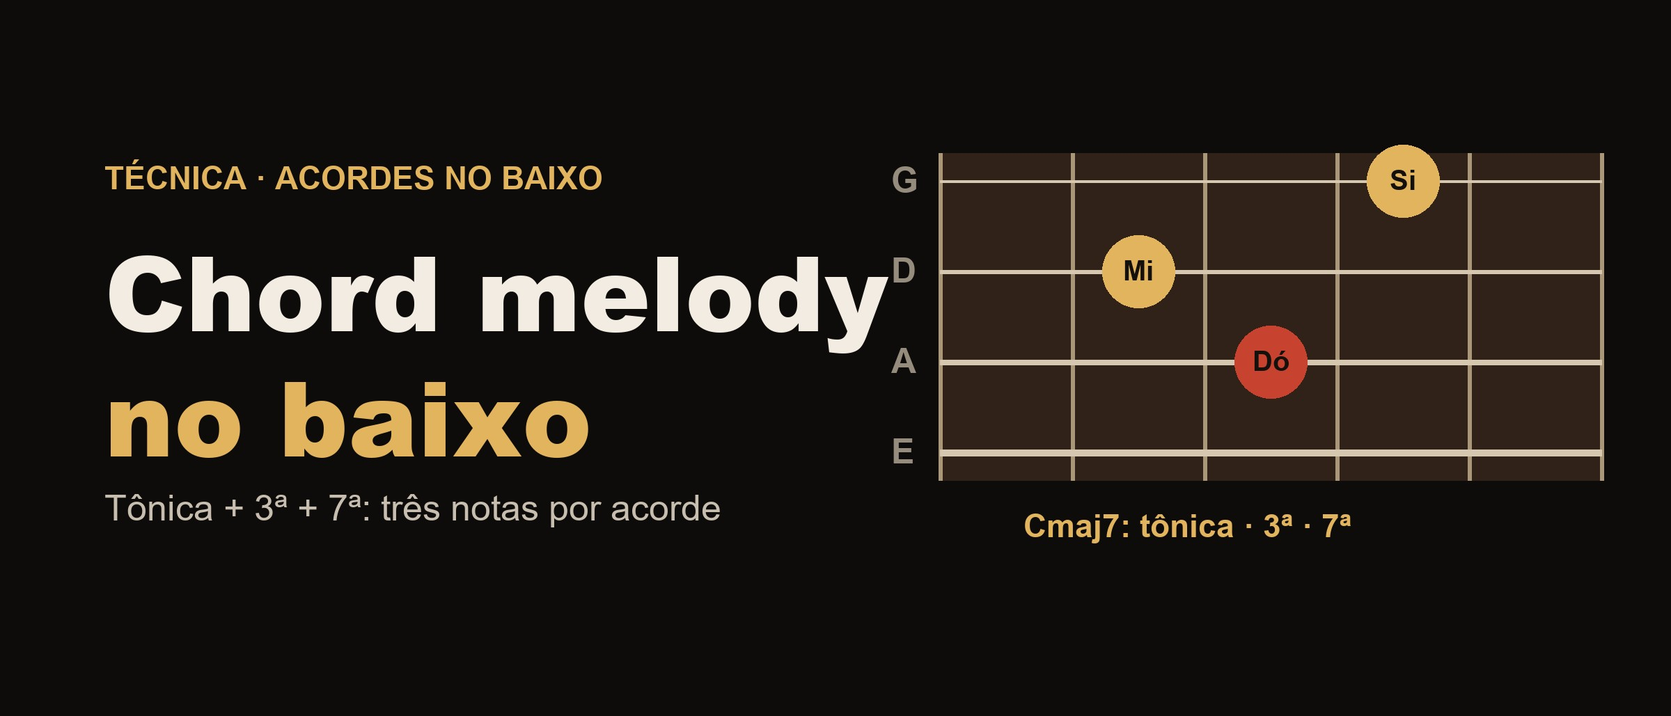
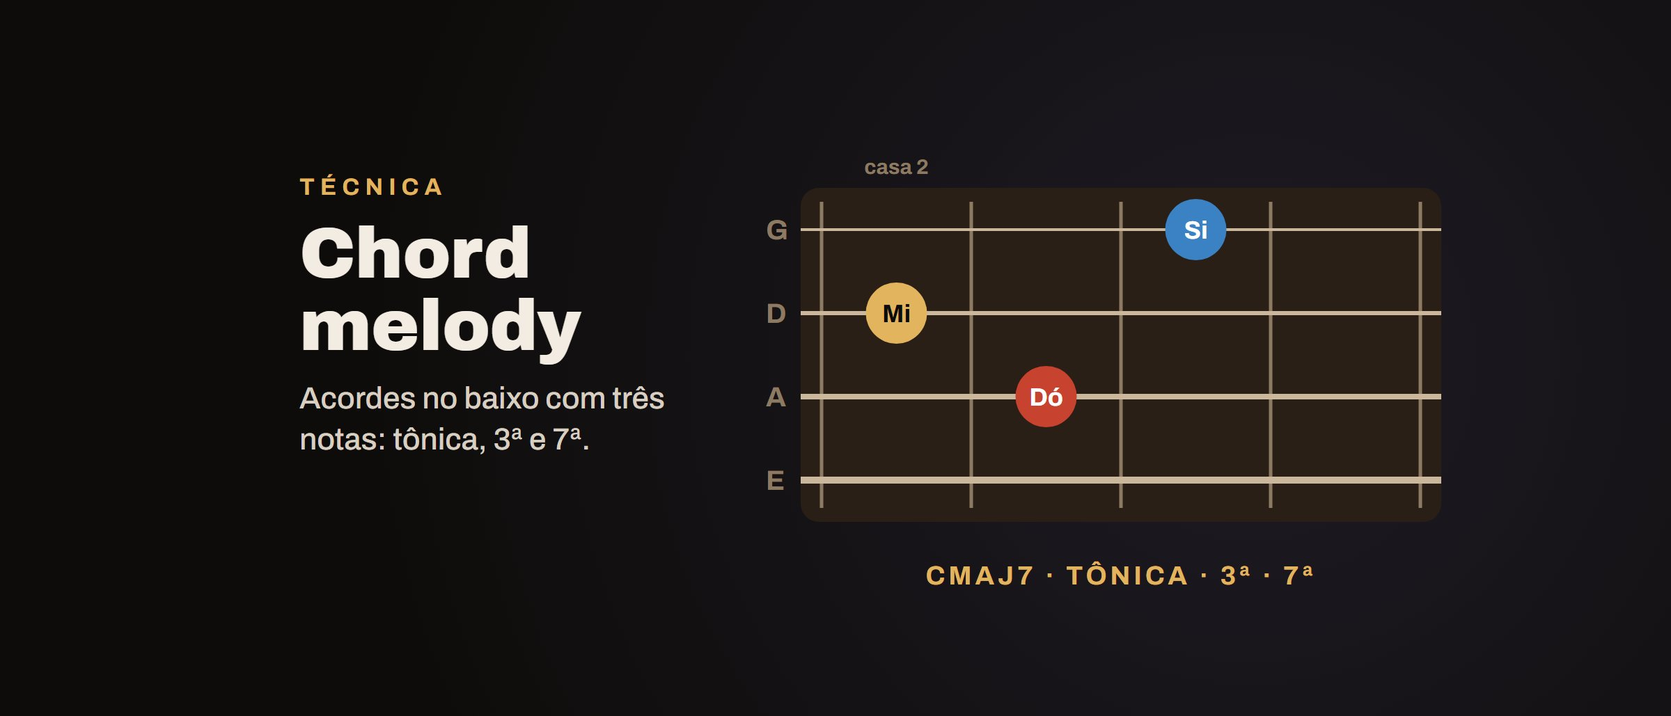
Blog: capas novas de Chord melody e 20 minutos por dia

Changed region(s): [[0.0625, 0.1866, 0.9688, 0.8397], [0.0625, 0.6842, 0.4375, 0.7464], [0.0625, 0.2177, 0.375, 0.2799]]

diff --git a/blog/como-estudar-baixo-20-minutos/index.html b/blog/como-estudar-baixo-20-minutos/index.html
@@ -9,7 +9,7 @@
 <meta property="og:type" content="website"><meta property="og:title" content="Como estudar baixo 20 minutos por dia · Ponto Grave"><meta property="og:description" content="Uma rotina de 20 minutos em 4 partes (aquecimento, técnica, repertório e criação), com tablatura e a regra do metrônomo para evoluir de verdade.">
 <meta name="p:domain_verify" content="52e3d19f7f7dd872ad8d0d6c3d9c54eb"/>
 <meta name="facebook-domain-verification" content="0gfs4mmpw6w1qt8sbcynrootcdd90w" />
-<meta property="og:image" content="https://pontograve.com.br/assets/img/blog-20-minutos.jpg?v=bcf600b9"><meta property="og:url" content="https://pontograve.com.br/blog/como-estudar-baixo-20-minutos/"><meta name="twitter:card" content="summary_large_image">
+<meta property="og:image" content="https://pontograve.com.br/assets/img/blog-20-minutos.jpg?v=cd104d4b"><meta property="og:url" content="https://pontograve.com.br/blog/como-estudar-baixo-20-minutos/"><meta name="twitter:card" content="summary_large_image">
 <meta name="theme-color" content="#0E0C0A">
 <link rel="icon" href="/assets/icones/icon.svg" type="image/svg+xml"><link rel="apple-touch-icon" href="/assets/icones/icon-180.png">
 <link rel="preconnect" href="https://fonts.googleapis.com"><link rel="preconnect" href="https://fonts.gstatic.com" crossorigin>
@@ -31,7 +31,7 @@ var pgC=null;try{pgC=localStorage.getItem('pg-cookies')}catch(e){}
 gtag('consent','default',{analytics_storage:pgC==='sim'?'granted':'denied',ad_storage:'denied',ad_user_data:'denied',ad_personalization:'denied'});
 gtag('js',new Date());gtag('config','G-DQKNDTQTC2');</script>
 <script async src="https://pagead2.googlesyndication.com/pagead/js/adsbygoogle.js?client=ca-pub-8083446003723195" crossorigin="anonymous"></script>
-<script type="application/ld+json">{"@context":"https://schema.org","@type":"BlogPosting","headline":"Como estudar baixo 20 minutos por dia (e evoluir de verdade)","description":"Uma rotina de 20 minutos em 4 partes (aquecimento, técnica, repertório e criação), com tablatura e a regra do metrônomo para evoluir de verdade.","datePublished":"2026-11-24","image":"https://pontograve.com.br/assets/img/blog-20-minutos.jpg?v=bcf600b9","author":{"@type":"Organization","name":"Ponto Grave"},"publisher":{"@type":"Organization","name":"Ponto Grave"}}</script><script type="application/ld+json">{"@context":"https://schema.org","@type":"FAQPage","mainEntity":[{"@type":"Question","name":"20 minutos são suficientes mesmo?","acceptedAnswer":{"@type":"Answer","text":"Para manter o progresso constante, sim. Se sobrar tempo, aumente cada parte proporcionalmente (40 ou 60 minutos), sem pular nenhuma."}},{"@type":"Question","name":"Posso estudar sem metrônomo?","acceptedAnswer":{"@type":"Answer","text":"Pode, mas evolui mais devagar. O tempo é o trabalho principal do baixista, e o metrônomo é o que mostra onde você corre ou atrasa."}},{"@type":"Question","name":"E se eu perder um dia?","acceptedAnswer":{"@type":"Answer","text":"Retome no dia seguinte, de onde parou. O que pesa é a frequência ao longo das semanas, não um dia isolado."}},{"@type":"Question","name":"Por onde começar se eu não sei nenhuma escala?","acceptedAnswer":{"@type":"Answer","text":"Pela pentatônica menor, no Desenho 1. Ela já serve para tocar linhas em blues, rock, pop e louvor."}}]}</script>
+<script type="application/ld+json">{"@context":"https://schema.org","@type":"BlogPosting","headline":"Como estudar baixo 20 minutos por dia (e evoluir de verdade)","description":"Uma rotina de 20 minutos em 4 partes (aquecimento, técnica, repertório e criação), com tablatura e a regra do metrônomo para evoluir de verdade.","datePublished":"2026-11-24","image":"https://pontograve.com.br/assets/img/blog-20-minutos.jpg?v=cd104d4b","author":{"@type":"Organization","name":"Ponto Grave"},"publisher":{"@type":"Organization","name":"Ponto Grave"}}</script><script type="application/ld+json">{"@context":"https://schema.org","@type":"FAQPage","mainEntity":[{"@type":"Question","name":"20 minutos são suficientes mesmo?","acceptedAnswer":{"@type":"Answer","text":"Para manter o progresso constante, sim. Se sobrar tempo, aumente cada parte proporcionalmente (40 ou 60 minutos), sem pular nenhuma."}},{"@type":"Question","name":"Posso estudar sem metrônomo?","acceptedAnswer":{"@type":"Answer","text":"Pode, mas evolui mais devagar. O tempo é o trabalho principal do baixista, e o metrônomo é o que mostra onde você corre ou atrasa."}},{"@type":"Question","name":"E se eu perder um dia?","acceptedAnswer":{"@type":"Answer","text":"Retome no dia seguinte, de onde parou. O que pesa é a frequência ao longo das semanas, não um dia isolado."}},{"@type":"Question","name":"Por onde começar se eu não sei nenhuma escala?","acceptedAnswer":{"@type":"Answer","text":"Pela pentatônica menor, no Desenho 1. Ela já serve para tocar linhas em blues, rock, pop e louvor."}}]}</script>
 </head>
 <body class="tema-claro">
 <div class="brilho-cursor" aria-hidden="true"></div>
@@ -49,7 +49,7 @@ gtag('js',new Date());gtag('config','G-DQKNDTQTC2');</script>
 <div class="barra-leitura" aria-hidden="true"></div>
 <section class="artigo-topo"><div class="wrap"><a href="/blog/tema/primeiros-passos/" class="rot" style="text-decoration:none">← Primeiros passos</a><h1>Como estudar baixo 20 minutos por dia (e evoluir de verdade)</h1>
   <p class="sub">Uma rotina simples em 4 partes, aquecimento, técnica, repertório e criação, que cabe em 20 minutos. Com exemplo de cada parte em tablatura, a regra do metrônomo e como medir o seu progresso.</p><p style="color:var(--cinza);font-size:14px">24 de novembro de 2026 · 5 min de leitura</p></div></section>
-<div class="wrap"><div class="artigo-capa revelar encaixar"><img src="/assets/img/blog-20-minutos.jpg?v=bcf600b9" alt="Como estudar baixo 20 minutos por dia (e evoluir de verdade)"></div><article class="prosa"><p>&quot;Não tenho tempo para estudar.&quot; Quase todo baixista já disse isso. E quase sempre o problema não é o tempo: é não saber <strong>o que fazer</strong> quando pega o baixo. Aí a pessoa toca as mesmas duas linhas de sempre, sente que não sai do lugar e larga o instrumento por uma semana.</p>
+<div class="wrap"><div class="artigo-capa revelar"><img src="/assets/img/blog-20-minutos.jpg?v=cd104d4b" alt="Como estudar baixo 20 minutos por dia (e evoluir de verdade)"></div><article class="prosa"><p>&quot;Não tenho tempo para estudar.&quot; Quase todo baixista já disse isso. E quase sempre o problema não é o tempo: é não saber <strong>o que fazer</strong> quando pega o baixo. Aí a pessoa toca as mesmas duas linhas de sempre, sente que não sai do lugar e larga o instrumento por uma semana.</p>
 <p>Quando comecei, aprendi sozinho, com pouco material e correndo atrás de informação. O que mais fez diferença não foi estudar muitas horas num domingo: foi ter <strong>um roteiro curto para todos os dias</strong>. Vinte minutos bem divididos rendem mais do que três horas sem rumo.</p>
 <p>Este artigo mostra esse roteiro: quatro partes, quanto tempo cada uma leva e um exemplo prático de cada.</p>
 <details class="sumario" open><summary>Neste artigo</summary><ol><li><a href="#por-que-20-minutos-funcionam">Por que 20 minutos funcionam</a></li><li><a href="#a-rotina-em-4-partes">A rotina em 4 partes</a></li><li><a href="#1-aquecimento-3-minutos">1. Aquecimento (3 minutos)</a></li><li><a href="#2-tecnica-ou-escala-7-minutos">2. Técnica ou escala (7 minutos)</a></li><li><a href="#3-repertorio-e-groove-7-minutos">3. Repertório e groove (7 minutos)</a></li><li><a href="#4-criacao-3-minutos">4. Criação (3 minutos)</a></li><li><a href="#exercicio-para-hoje">Exercício para hoje</a></li><li><a href="#como-medir-o-seu-progresso">Como medir o seu progresso</a></li><li><a href="#erros-comuns">Erros comuns</a></li><li><a href="#perguntas-frequentes">Perguntas frequentes</a></li><li><a href="#para-ir-alem">Para ir além</a></li></ol></details><h2 id="por-que-20-minutos-funcionam">Por que 20 minutos funcionam</h2>

diff --git a/blog/chord-melody-no-baixo/index.html b/blog/chord-melody-no-baixo/index.html
@@ -9,7 +9,7 @@
 <meta property="og:type" content="website"><meta property="og:title" content="Acordes no baixo: chord melody com 3 notas · Ponto Grave"><meta property="og:description" content="Tônica, 3ª e 7ª: toque acordes no contrabaixo com a progressão de &quot;Just the Two of Us&quot;. As 5 formas no braço e exercício em tablatura.">
 <meta name="p:domain_verify" content="52e3d19f7f7dd872ad8d0d6c3d9c54eb"/>
 <meta name="facebook-domain-verification" content="0gfs4mmpw6w1qt8sbcynrootcdd90w" />
-<meta property="og:image" content="https://pontograve.com.br/assets/img/blog-chord-melody.jpg?v=09d7aa9a"><meta property="og:url" content="https://pontograve.com.br/blog/chord-melody-no-baixo/"><meta name="twitter:card" content="summary_large_image">
+<meta property="og:image" content="https://pontograve.com.br/assets/img/blog-chord-melody.jpg?v=0038b656"><meta property="og:url" content="https://pontograve.com.br/blog/chord-melody-no-baixo/"><meta name="twitter:card" content="summary_large_image">
 <meta name="theme-color" content="#0E0C0A">
 <link rel="icon" href="/assets/icones/icon.svg" type="image/svg+xml"><link rel="apple-touch-icon" href="/assets/icones/icon-180.png">
 <link rel="preconnect" href="https://fonts.googleapis.com"><link rel="preconnect" href="https://fonts.gstatic.com" crossorigin>
@@ -31,7 +31,7 @@ var pgC=null;try{pgC=localStorage.getItem('pg-cookies')}catch(e){}
 gtag('consent','default',{analytics_storage:pgC==='sim'?'granted':'denied',ad_storage:'denied',ad_user_data:'denied',ad_personalization:'denied'});
 gtag('js',new Date());gtag('config','G-DQKNDTQTC2');</script>
 <script async src="https://pagead2.googlesyndication.com/pagead/js/adsbygoogle.js?client=ca-pub-8083446003723195" crossorigin="anonymous"></script>
-<script type="application/ld+json">{"@context":"https://schema.org","@type":"BlogPosting","headline":"Chord melody no baixo: a progressão de 'Just the Two of Us' com 3 notas por acorde","description":"Tônica, 3ª e 7ª: toque acordes no contrabaixo com a progressão de \"Just the Two of Us\". As 5 formas no braço e exercício em tablatura.","datePublished":"2026-11-24","image":"https://pontograve.com.br/assets/img/blog-chord-melody.jpg?v=09d7aa9a","author":{"@type":"Organization","name":"Ponto Grave"},"publisher":{"@type":"Organization","name":"Ponto Grave"}}</script><script type="application/ld+json">{"@context":"https://schema.org","@type":"FAQPage","mainEntity":[{"@type":"Question","name":"Dá para fazer chord melody num baixo de 4 cordas?","acceptedAnswer":{"@type":"Answer","text":"Dá, principalmente com formas de 3 notas como estas. O baixo de 5 ou 6 cordas facilita a melodia aguda, mas não é obrigatório para começar."}},{"@type":"Question","name":"Por que tirar a 5ª do acorde?","acceptedAnswer":{"@type":"Answer","text":"Porque ela quase não muda o som e ocupa uma corda. A 3ª e a 7ª dizem ao ouvido qual é o acorde; a tônica embaixo completa a informação."}},{"@type":"Question","name":"Preciso saber teoria para isso?","acceptedAnswer":{"@type":"Answer","text":"Só o básico de intervalos: onde fica a 3ª e a 7ª a partir da tônica. As formas da tabela já resolvem a progressão inteira."}},{"@type":"Question","name":"Posso usar essas formas em outras músicas?","acceptedAnswer":{"@type":"Answer","text":"Sim. As formas de maj7, m7 e 7 servem para qualquer música com esses acordes, em qualquer tom: basta mover a tônica."}}]}</script>
+<script type="application/ld+json">{"@context":"https://schema.org","@type":"BlogPosting","headline":"Chord melody no baixo: a progressão de 'Just the Two of Us' com 3 notas por acorde","description":"Tônica, 3ª e 7ª: toque acordes no contrabaixo com a progressão de \"Just the Two of Us\". As 5 formas no braço e exercício em tablatura.","datePublished":"2026-11-24","image":"https://pontograve.com.br/assets/img/blog-chord-melody.jpg?v=0038b656","author":{"@type":"Organization","name":"Ponto Grave"},"publisher":{"@type":"Organization","name":"Ponto Grave"}}</script><script type="application/ld+json">{"@context":"https://schema.org","@type":"FAQPage","mainEntity":[{"@type":"Question","name":"Dá para fazer chord melody num baixo de 4 cordas?","acceptedAnswer":{"@type":"Answer","text":"Dá, principalmente com formas de 3 notas como estas. O baixo de 5 ou 6 cordas facilita a melodia aguda, mas não é obrigatório para começar."}},{"@type":"Question","name":"Por que tirar a 5ª do acorde?","acceptedAnswer":{"@type":"Answer","text":"Porque ela quase não muda o som e ocupa uma corda. A 3ª e a 7ª dizem ao ouvido qual é o acorde; a tônica embaixo completa a informação."}},{"@type":"Question","name":"Preciso saber teoria para isso?","acceptedAnswer":{"@type":"Answer","text":"Só o básico de intervalos: onde fica a 3ª e a 7ª a partir da tônica. As formas da tabela já resolvem a progressão inteira."}},{"@type":"Question","name":"Posso usar essas formas em outras músicas?","acceptedAnswer":{"@type":"Answer","text":"Sim. As formas de maj7, m7 e 7 servem para qualquer música com esses acordes, em qualquer tom: basta mover a tônica."}}]}</script>
 </head>
 <body class="tema-claro">
 <div class="brilho-cursor" aria-hidden="true"></div>
@@ -49,7 +49,7 @@ gtag('js',new Date());gtag('config','G-DQKNDTQTC2');</script>
 <div class="barra-leitura" aria-hidden="true"></div>
 <section class="artigo-topo"><div class="wrap"><a href="/blog/tema/tecnica/" class="rot" style="text-decoration:none">← Técnica</a><h1>Chord melody no baixo: a progressão de 'Just the Two of Us' com 3 notas por acorde</h1>
   <p class="sub">Como tocar acordes no contrabaixo usando só a tônica, a 3ª e a 7ª, com a progressão que ficou famosa em &quot;Just the Two of Us&quot;. Formas no braço, tablatura do exercício e o caminho para o chord melody.</p><p style="color:var(--cinza);font-size:14px">24 de novembro de 2026 · 5 min de leitura</p></div></section>
-<div class="wrap"><div class="artigo-capa revelar"><img src="/assets/img/blog-chord-melody.jpg?v=09d7aa9a" alt="Chord melody no baixo: a progressão de 'Just the Two of Us' com 3 notas por acorde"></div><article class="prosa"><p>Tocar acordes no baixo parece coisa de baixista avançado, de baixo de 6 cordas e de vídeo com milhões de visualizações. Mas a base do <strong>chord melody</strong> (tocar a harmonia e a melodia sozinho) é simples: <strong>três notas por acorde</strong>.</p>
+<div class="wrap"><div class="artigo-capa revelar"><img src="/assets/img/blog-chord-melody.jpg?v=0038b656" alt="Chord melody no baixo: a progressão de 'Just the Two of Us' com 3 notas por acorde"></div><article class="prosa"><p>Tocar acordes no baixo parece coisa de baixista avançado, de baixo de 6 cordas e de vídeo com milhões de visualizações. Mas a base do <strong>chord melody</strong> (tocar a harmonia e a melodia sozinho) é simples: <strong>três notas por acorde</strong>.</p>
 <p>Neste artigo você vai montar essas formas usando uma das progressões mais conhecidas da música pop: a de <strong>&quot;Just the Two of Us&quot;</strong>, de Bill Withers e Grover Washington Jr. (1980). Ela é tão usada que muitos músicos a chamam simplesmente de &quot;a progressão Just the Two of Us&quot;.</p>
 <p>Aqui não tem a melodia nem o arranjo de ninguém: só a <strong>harmonia</strong>, que é o que você precisa para começar.</p>
 <details class="sumario" open><summary>Neste artigo</summary><ol><li><a href="#a-progressao">A progressão</a></li><li><a href="#por-que-so-3-notas">Por que só 3 notas</a></li><li><a href="#as-5-formas">As 5 formas</a></li><li><a href="#o-exercicio-em-tablatura">O exercício em tablatura</a></li><li><a href="#como-estudar">Como estudar</a></li><li><a href="#exercicio-para-hoje">Exercício para hoje</a></li><li><a href="#o-caminho-para-o-chord-melody">O caminho para o chord melody</a></li><li><a href="#perguntas-frequentes">Perguntas frequentes</a></li><li><a href="#para-ir-alem">Para ir além</a></li></ol></details><h2 id="a-progressao">A progressão</h2>

diff --git a/blog/index.html b/blog/index.html
@@ -49,9 +49,9 @@ gtag('js',new Date());gtag('config','G-DQKNDTQTC2');</script>
 <section class="artigo-topo" style="padding-bottom:30px"><div class="wrap"><span class="rot">Blog Ponto Grave</span><h1 class="titulo-letras">Para estudar <span class="o">hoje.</span></h1>
   <p class="sub">Técnica, teoria, equipamento e as lendas do baixo. Sempre com tablatura e exercício para você pegar o baixo e testar.</p><nav class="temas" aria-label="Temas do blog"><a href="/blog/" aria-current="page">Todos <span>26</span></a><a href="/blog/tema/primeiros-passos/">Primeiros passos <span>5</span></a><a href="/blog/tema/desafios-e-testes/">Desafios e testes <span>2</span></a><a href="/blog/tema/pentatonica/">Pentatônica <span>2</span></a><a href="/blog/tema/escalas/">Escalas <span>3</span></a><a href="/blog/tema/tecnica/">Técnica <span>5</span></a><a href="/blog/tema/louvor/">Louvor <span>1</span></a><a href="/blog/tema/equipamento/">Equipamento <span>5</span></a><a href="/blog/tema/lendas-do-baixo/">Lendas do baixo <span>1</span></a><a href="/blog/tema/vida-de-baixista/">Vida de baixista <span>2</span></a></nav></div></section>
 <section class="secao" style="padding-top:20px"><div class="wrap"><div class="posts"><a class="post-card revelar" style="--atraso:0s" href="/blog/chord-melody-no-baixo/">
-  <div class="img"><img src="/assets/img/blog-chord-melody.jpg?v=09d7aa9a" alt="Chord melody no baixo: a progressão de 'Just the Two of Us' com 3 notas por acorde" loading="lazy"></div>
+  <div class="img"><img src="/assets/img/blog-chord-melody.jpg?v=0038b656" alt="Chord melody no baixo: a progressão de 'Just the Two of Us' com 3 notas por acorde" loading="lazy"></div>
   <div class="txt"><span class="rot">Técnica</span><h3>Chord melody no baixo: a progressão de 'Just the Two of Us' com 3 notas por acorde</h3><p>Como tocar acordes no contrabaixo usando só a tônica, a 3ª e a 7ª, com a progressão que ficou famosa em &quot;Just the Two of Us&quot;. Formas no braço, tablatura do exercício e o caminho para o chord melody.</p><span class="meta">24 de novembro de 2026 · 5 min de leitura</span></div></a><a class="post-card revelar" style="--atraso:0.1s" href="/blog/como-estudar-baixo-20-minutos/">
-  <div class="img encaixar"><img src="/assets/img/blog-20-minutos.jpg?v=bcf600b9" alt="Como estudar baixo 20 minutos por dia (e evoluir de verdade)" loading="lazy"></div>
+  <div class="img"><img src="/assets/img/blog-20-minutos.jpg?v=cd104d4b" alt="Como estudar baixo 20 minutos por dia (e evoluir de verdade)" loading="lazy"></div>
   <div class="txt"><span class="rot">Primeiros passos</span><h3>Como estudar baixo 20 minutos por dia (e evoluir de verdade)</h3><p>Uma rotina simples em 4 partes, aquecimento, técnica, repertório e criação, que cabe em 20 minutos. Com exemplo de cada parte em tablatura, a regra do metrônomo e como medir o seu progresso.</p><span class="meta">24 de novembro de 2026 · 5 min de leitura</span></div></a><a class="post-card revelar" style="--atraso:0.2s" href="/blog/desafio-30-dias-baixo/">
   <div class="img"><img src="/assets/img/blog-desafio.jpg?v=3d0cdb11" alt="Desafio de 30 dias no baixo: do 'só a tônica' à sua primeira linha" loading="lazy"></div>
   <div class="txt"><span class="rot">Desafios e testes</span><h3>Desafio de 30 dias no baixo: do 'só a tônica' à sua primeira linha</h3><p>20 minutos por dia, 30 dias, uma tarefa por dia. No fim, você cria a sua própria linha de baixo com a pentatônica. Com tabela para acompanhar e exercícios em tablatura.</p><span class="meta">26 de outubro de 2026 · 6 min de leitura</span></div></a><a class="post-card revelar" style="--atraso:0.30000000000000004s" href="/blog/erros-de-baixista-iniciante/">

diff --git a/blog/tema/tecnica/index.html b/blog/tema/tecnica/index.html
@@ -49,7 +49,7 @@ gtag('js',new Date());gtag('config','G-DQKNDTQTC2');</script>
 <section class="artigo-topo" style="padding-bottom:30px"><div class="wrap"><span class="rot"><a href="/blog/" style="color:inherit;text-decoration:none">Blog</a> · Técnica</span><h1 class="titulo-letras">Técnica</h1>
   <p class="sub">Técnica, teoria, equipamento e as lendas do baixo. Sempre com tablatura e exercício para você pegar o baixo e testar.</p><nav class="temas" aria-label="Temas do blog"><a href="/blog/">Todos <span>26</span></a><a href="/blog/tema/primeiros-passos/">Primeiros passos <span>5</span></a><a href="/blog/tema/desafios-e-testes/">Desafios e testes <span>2</span></a><a href="/blog/tema/pentatonica/">Pentatônica <span>2</span></a><a href="/blog/tema/escalas/">Escalas <span>3</span></a><a href="/blog/tema/tecnica/" aria-current="page">Técnica <span>5</span></a><a href="/blog/tema/louvor/">Louvor <span>1</span></a><a href="/blog/tema/equipamento/">Equipamento <span>5</span></a><a href="/blog/tema/lendas-do-baixo/">Lendas do baixo <span>1</span></a><a href="/blog/tema/vida-de-baixista/">Vida de baixista <span>2</span></a></nav><script>(function(){var n=document.querySelector('.temas'),a=n&&n.querySelector('[aria-current]');if(a)n.scrollLeft=a.offsetLeft-n.offsetLeft-16})()</script></div></section>
 <section class="secao" style="padding-top:20px"><div class="wrap"><div class="posts"><a class="post-card revelar" style="--atraso:0s" href="/blog/chord-melody-no-baixo/">
-  <div class="img"><img src="/assets/img/blog-chord-melody.jpg?v=09d7aa9a" alt="Chord melody no baixo: a progressão de 'Just the Two of Us' com 3 notas por acorde" loading="lazy"></div>
+  <div class="img"><img src="/assets/img/blog-chord-melody.jpg?v=0038b656" alt="Chord melody no baixo: a progressão de 'Just the Two of Us' com 3 notas por acorde" loading="lazy"></div>
   <div class="txt"><span class="rot">Técnica</span><h3>Chord melody no baixo: a progressão de 'Just the Two of Us' com 3 notas por acorde</h3><p>Como tocar acordes no contrabaixo usando só a tônica, a 3ª e a 7ª, com a progressão que ficou famosa em &quot;Just the Two of Us&quot;. Formas no braço, tablatura do exercício e o caminho para o chord melody.</p><span class="meta">24 de novembro de 2026 · 5 min de leitura</span></div></a><a class="post-card revelar" style="--atraso:0.1s" href="/blog/ghost-notes-no-baixo/">
   <div class="img"><img src="/assets/img/blog-ghost-notes.jpg?v=8fbda1bd" alt="Ghost notes no baixo: o tempero que faz o groove balançar" loading="lazy"></div>
   <div class="txt"><span class="rot">Técnica</span><h3>Ghost notes no baixo: o tempero que faz o groove balançar</h3><p>&quot;Toco as notas certas, mas não balança.&quot; Muitas vezes falta o que não se ouve direito, as notas abafadas entre as notas. Como tocar, onde colocar e um groove para treinar hoje.</p><span class="meta">21 de outubro de 2026 · 5 min de leitura</span></div></a><a class="post-card revelar" style="--atraso:0.2s" href="/blog/walking-bass-para-iniciantes/">

diff --git a/blog/tema/primeiros-passos/index.html b/blog/tema/primeiros-passos/index.html
@@ -49,7 +49,7 @@ gtag('js',new Date());gtag('config','G-DQKNDTQTC2');</script>
 <section class="artigo-topo" style="padding-bottom:30px"><div class="wrap"><span class="rot"><a href="/blog/" style="color:inherit;text-decoration:none">Blog</a> · Primeiros passos</span><h1 class="titulo-letras">Primeiros passos</h1>
   <p class="sub">Técnica, teoria, equipamento e as lendas do baixo. Sempre com tablatura e exercício para você pegar o baixo e testar.</p><nav class="temas" aria-label="Temas do blog"><a href="/blog/">Todos <span>26</span></a><a href="/blog/tema/primeiros-passos/" aria-current="page">Primeiros passos <span>5</span></a><a href="/blog/tema/desafios-e-testes/">Desafios e testes <span>2</span></a><a href="/blog/tema/pentatonica/">Pentatônica <span>2</span></a><a href="/blog/tema/escalas/">Escalas <span>3</span></a><a href="/blog/tema/tecnica/">Técnica <span>5</span></a><a href="/blog/tema/louvor/">Louvor <span>1</span></a><a href="/blog/tema/equipamento/">Equipamento <span>5</span></a><a href="/blog/tema/lendas-do-baixo/">Lendas do baixo <span>1</span></a><a href="/blog/tema/vida-de-baixista/">Vida de baixista <span>2</span></a></nav><script>(function(){var n=document.querySelector('.temas'),a=n&&n.querySelector('[aria-current]');if(a)n.scrollLeft=a.offsetLeft-n.offsetLeft-16})()</script></div></section>
 <section class="secao" style="padding-top:20px"><div class="wrap"><div class="posts"><a class="post-card revelar" style="--atraso:0s" href="/blog/como-estudar-baixo-20-minutos/">
-  <div class="img encaixar"><img src="/assets/img/blog-20-minutos.jpg?v=bcf600b9" alt="Como estudar baixo 20 minutos por dia (e evoluir de verdade)" loading="lazy"></div>
+  <div class="img"><img src="/assets/img/blog-20-minutos.jpg?v=cd104d4b" alt="Como estudar baixo 20 minutos por dia (e evoluir de verdade)" loading="lazy"></div>
   <div class="txt"><span class="rot">Primeiros passos</span><h3>Como estudar baixo 20 minutos por dia (e evoluir de verdade)</h3><p>Uma rotina simples em 4 partes, aquecimento, técnica, repertório e criação, que cabe em 20 minutos. Com exemplo de cada parte em tablatura, a regra do metrônomo e como medir o seu progresso.</p><span class="meta">24 de novembro de 2026 · 5 min de leitura</span></div></a><a class="post-card revelar" style="--atraso:0.1s" href="/blog/erros-de-baixista-iniciante/">
   <div class="img"><img src="/assets/img/blog-erros.jpg?v=a7e9d87a" alt="9 erros que todo baixista iniciante comete (e como sair de cada um)" loading="lazy"></div>
   <div class="txt"><span class="rot">Primeiros passos</span><h3>9 erros que todo baixista iniciante comete (e como sair de cada um)</h3><p>Mão tensa, volume alto, linha parada, metrônomo esquecido... Todo baixista passou por isso. Veja os 9 erros mais comuns de quem está começando e a saída para cada um, com exercício.</p><span class="meta">26 de outubro de 2026 · 5 min de leitura</span></div></a><a class="post-card revelar" style="--atraso:0.2s" href="/blog/tirar-musica-de-ouvido-no-baixo/">

diff --git a/index.html b/index.html
@@ -120,9 +120,9 @@ gtag('js',new Date());gtag('config','G-DQKNDTQTC2');</script>
 <section class="secao" style="padding-top:0"><div class="wrap">
   <div class="cab-secao"><div><span class="rot">Blog</span><h2 class="titulo-letras">Para estudar <span class="o">hoje.</span></h2></div><a class="btn btn-linha revelar" href="/blog/">Todos os artigos <span class="seta">→</span></a></div>
   <div class="posts"><a class="post-card revelar" style="--atraso:0s" href="/blog/chord-melody-no-baixo/">
-  <div class="img"><img src="/assets/img/blog-chord-melody.jpg?v=09d7aa9a" alt="Chord melody no baixo: a progressão de 'Just the Two of Us' com 3 notas por acorde" loading="lazy"></div>
+  <div class="img"><img src="/assets/img/blog-chord-melody.jpg?v=0038b656" alt="Chord melody no baixo: a progressão de 'Just the Two of Us' com 3 notas por acorde" loading="lazy"></div>
   <div class="txt"><span class="rot">Técnica</span><h3>Chord melody no baixo: a progressão de 'Just the Two of Us' com 3 notas por acorde</h3><p>Como tocar acordes no contrabaixo usando só a tônica, a 3ª e a 7ª, com a progressão que ficou famosa em &quot;Just the Two of Us&quot;. Formas no braço, tablatura do exercício e o caminho para o chord melody.</p><span class="meta">24 de novembro de 2026 · 5 min de leitura</span></div></a><a class="post-card revelar" style="--atraso:0.1s" href="/blog/como-estudar-baixo-20-minutos/">
-  <div class="img encaixar"><img src="/assets/img/blog-20-minutos.jpg?v=bcf600b9" alt="Como estudar baixo 20 minutos por dia (e evoluir de verdade)" loading="lazy"></div>
+  <div class="img"><img src="/assets/img/blog-20-minutos.jpg?v=cd104d4b" alt="Como estudar baixo 20 minutos por dia (e evoluir de verdade)" loading="lazy"></div>
   <div class="txt"><span class="rot">Primeiros passos</span><h3>Como estudar baixo 20 minutos por dia (e evoluir de verdade)</h3><p>Uma rotina simples em 4 partes, aquecimento, técnica, repertório e criação, que cabe em 20 minutos. Com exemplo de cada parte em tablatura, a regra do metrônomo e como medir o seu progresso.</p><span class="meta">24 de novembro de 2026 · 5 min de leitura</span></div></a><a class="post-card revelar" style="--atraso:0.2s" href="/blog/desafio-30-dias-baixo/">
   <div class="img"><img src="/assets/img/blog-desafio.jpg?v=3d0cdb11" alt="Desafio de 30 dias no baixo: do 'só a tônica' à sua primeira linha" loading="lazy"></div>
   <div class="txt"><span class="rot">Desafios e testes</span><h3>Desafio de 30 dias no baixo: do 'só a tônica' à sua primeira linha</h3><p>20 minutos por dia, 30 dias, uma tarefa por dia. No fim, você cria a sua própria linha de baixo com a pentatônica. Com tabela para acompanhar e exercícios em tablatura.</p><span class="meta">26 de outubro de 2026 · 6 min de leitura</span></div></a></div>

diff --git a/blog/erros-de-baixista-iniciante/index.html b/blog/erros-de-baixista-iniciante/index.html
@@ -144,7 +144,7 @@ Os de técnica (mão tensa, cordas soltas) melhoram em semanas. Os de ouvido (bu
 <aside class="livro-cap"><img src="/assets/img/capa-cinco-notas.jpg?v=e3ef6b7d" alt="Livro Cinco Notas" loading="lazy"><div><span>Vai mais fundo no livro</span><strong>Cinco Notas · Capítulo 29: Plano de estudos</strong><p>Com tablaturas, diagramas do braço e exercícios para tocar, mais 6 bônus.</p><a class="btn btn-ouro" href="/livros/cinco-notas/?utm_source=blog&amp;utm_medium=artigo&amp;utm_campaign=capitulo">Conhecer o livro <span class="seta">→</span></a></div></aside></article>
   <div class="fim-artigo revelar"><a class="btn btn-ouro" href="https://lista.pontograve.com.br/brinde">Baixar o Mapa da pentatônica <span class="seta">→</span></a></div></div>
 <section class="secao"><div class="wrap"><div class="cab-secao"><div><span class="rot">Continue lendo</span><h2>Leia <span class="o">também</span></h2></div></div><div class="posts"><a class="post-card revelar" style="--atraso:0s" href="/blog/como-estudar-baixo-20-minutos/">
-  <div class="img encaixar"><img src="/assets/img/blog-20-minutos.jpg?v=bcf600b9" alt="Como estudar baixo 20 minutos por dia (e evoluir de verdade)" loading="lazy"></div>
+  <div class="img"><img src="/assets/img/blog-20-minutos.jpg?v=cd104d4b" alt="Como estudar baixo 20 minutos por dia (e evoluir de verdade)" loading="lazy"></div>
   <div class="txt"><span class="rot">Primeiros passos</span><h3>Como estudar baixo 20 minutos por dia (e evoluir de verdade)</h3><p>Uma rotina simples em 4 partes, aquecimento, técnica, repertório e criação, que cabe em 20 minutos. Com exemplo de cada parte em tablatura, a regra do metrônomo e como medir o seu progresso.</p><span class="meta">24 de novembro de 2026 · 5 min de leitura</span></div></a><a class="post-card revelar" style="--atraso:0.1s" href="/blog/decorar-notas-do-braco/">
   <div class="img"><img src="/assets/img/blog-notas-braco.jpg?v=75a3c2a8" alt="Como decorar as notas do braço do baixo (sem decoreba)" loading="lazy"></div>
   <div class="txt"><span class="rot">Primeiros passos</span><h3>Como decorar as notas do braço do baixo (sem decoreba)</h3><p>Você não precisa decorar 80 notas. Com as cordas Mi e Lá, as marcações do braço e o desenho da oitava, você encontra qualquer nota em segundos. Com exercício de 5 minutos por dia.</p><span class="meta">13 de outubro de 2026 · 5 min de leitura</span></div></a><a class="post-card revelar" style="--atraso:0.2s" href="/blog/tirar-musica-de-ouvido-no-baixo/">

diff --git a/blog/linhas-de-baixo-para-tocar/index.html b/blog/linhas-de-baixo-para-tocar/index.html
@@ -183,7 +183,7 @@ Com estudo regular, as cinco primeiras saem nos primeiros meses. As últimas pod
 <aside class="livro-cap"><img src="/assets/img/capa-cinco-notas.jpg?v=e3ef6b7d" alt="Livro Cinco Notas" loading="lazy"><div><span>Vai mais fundo no livro</span><strong>Cinco Notas · Capítulo 26: Linhas e fills</strong><p>Com tablaturas, diagramas do braço e exercícios para tocar, mais 6 bônus.</p><a class="btn btn-ouro" href="/livros/cinco-notas/?utm_source=blog&amp;utm_medium=artigo&amp;utm_campaign=capitulo">Conhecer o livro <span class="seta">→</span></a></div></aside></article>
   <div class="fim-artigo revelar"><a class="btn btn-ouro" href="https://lista.pontograve.com.br/brinde">Baixar o Mapa da pentatônica <span class="seta">→</span></a></div></div>
 <section class="secao"><div class="wrap"><div class="cab-secao"><div><span class="rot">Continue lendo</span><h2>Leia <span class="o">também</span></h2></div></div><div class="posts"><a class="post-card revelar" style="--atraso:0s" href="/blog/como-estudar-baixo-20-minutos/">
-  <div class="img encaixar"><img src="/assets/img/blog-20-minutos.jpg?v=bcf600b9" alt="Como estudar baixo 20 minutos por dia (e evoluir de verdade)" loading="lazy"></div>
+  <div class="img"><img src="/assets/img/blog-20-minutos.jpg?v=cd104d4b" alt="Como estudar baixo 20 minutos por dia (e evoluir de verdade)" loading="lazy"></div>
   <div class="txt"><span class="rot">Primeiros passos</span><h3>Como estudar baixo 20 minutos por dia (e evoluir de verdade)</h3><p>Uma rotina simples em 4 partes, aquecimento, técnica, repertório e criação, que cabe em 20 minutos. Com exemplo de cada parte em tablatura, a regra do metrônomo e como medir o seu progresso.</p><span class="meta">24 de novembro de 2026 · 5 min de leitura</span></div></a><a class="post-card revelar" style="--atraso:0.1s" href="/blog/o-que-o-baixista-ouve/">
   <div class="img"><img src="/assets/img/blog-ouve.jpg?v=0d5253b4" alt="O que o baixista ouve que ninguém mais ouve" loading="lazy"></div>
   <div class="txt"><span class="rot">Vida de baixista</span><h3>O que o baixista ouve que ninguém mais ouve</h3><p>Ninguém percebe o baixo... até ele parar. Por que o grave segura a música, por que o público sente o baixo sem perceber e o que muda na cabeça de quem toca. Ouça a diferença.</p><span class="meta">26 de outubro de 2026 · 5 min de leitura</span></div></a><a class="post-card revelar" style="--atraso:0.2s" href="/blog/tirar-musica-de-ouvido-no-baixo/">

diff --git a/blog/so-toco-a-tonica/index.html b/blog/so-toco-a-tonica/index.html
@@ -143,7 +143,7 @@ O raciocínio é o mesmo: tônica no tempo 1 e notas da <a href="/blog/pentatoni
 <section class="secao"><div class="wrap"><div class="cab-secao"><div><span class="rot">Continue lendo</span><h2>Leia <span class="o">também</span></h2></div></div><div class="posts"><a class="post-card revelar" style="--atraso:0s" href="/blog/walking-bass-para-iniciantes/">
   <div class="img"><img src="/assets/img/blog-walking.jpg?v=8f8ca8d8" alt="Walking bass para iniciantes: a linha que caminha em 4 passos" loading="lazy"></div>
   <div class="txt"><span class="rot">Técnica</span><h3>Walking bass para iniciantes: a linha que caminha em 4 passos</h3><p>Quatro notas por compasso, tônica no tempo 1 e uma nota de aproximação no tempo 4. Com tablatura de um blues em Dó e um exercício para a sua linha começar a andar.</p><span class="meta">21 de outubro de 2026 · 5 min de leitura</span></div></a><a class="post-card revelar" style="--atraso:0.1s" href="/blog/chord-melody-no-baixo/">
-  <div class="img"><img src="/assets/img/blog-chord-melody.jpg?v=09d7aa9a" alt="Chord melody no baixo: a progressão de 'Just the Two of Us' com 3 notas por acorde" loading="lazy"></div>
+  <div class="img"><img src="/assets/img/blog-chord-melody.jpg?v=0038b656" alt="Chord melody no baixo: a progressão de 'Just the Two of Us' com 3 notas por acorde" loading="lazy"></div>
   <div class="txt"><span class="rot">Técnica</span><h3>Chord melody no baixo: a progressão de 'Just the Two of Us' com 3 notas por acorde</h3><p>Como tocar acordes no contrabaixo usando só a tônica, a 3ª e a 7ª, com a progressão que ficou famosa em &quot;Just the Two of Us&quot;. Formas no braço, tablatura do exercício e o caminho para o chord melody.</p><span class="meta">24 de novembro de 2026 · 5 min de leitura</span></div></a><a class="post-card revelar" style="--atraso:0.2s" href="/blog/ghost-notes-no-baixo/">
   <div class="img"><img src="/assets/img/blog-ghost-notes.jpg?v=8fbda1bd" alt="Ghost notes no baixo: o tempero que faz o groove balançar" loading="lazy"></div>
   <div class="txt"><span class="rot">Técnica</span><h3>Ghost notes no baixo: o tempero que faz o groove balançar</h3><p>&quot;Toco as notas certas, mas não balança.&quot; Muitas vezes falta o que não se ouve direito, as notas abafadas entre as notas. Como tocar, onde colocar e um groove para treinar hoje.</p><span class="meta">21 de outubro de 2026 · 5 min de leitura</span></div></a></div></div></section>

diff --git a/blog/tirar-musica-de-ouvido-no-baixo/index.html b/blog/tirar-musica-de-ouvido-no-baixo/index.html
@@ -124,7 +124,7 @@ Os 15 minutos do exercício são suficientes. O importante é a frequência: uma
 <section class="secao"><div class="wrap"><div class="cab-secao"><div><span class="rot">Continue lendo</span><h2>Leia <span class="o">também</span></h2></div></div><div class="posts"><a class="post-card revelar" style="--atraso:0s" href="/blog/como-afinar-o-baixo/">
   <div class="img"><img src="/assets/img/blog-afinar.jpg?v=baeeb049" alt="Como afinar o baixo: 3 jeitos (pelo celular, pela casa 5 e por harmônicos)" loading="lazy"></div>
   <div class="txt"><span class="rot">Primeiros passos</span><h3>Como afinar o baixo: 3 jeitos (pelo celular, pela casa 5 e por harmônicos)</h3><p>As notas de cada corda, o jeito mais rápido de afinar pelo celular e dois métodos para afinar de ouvido, sem aparelho nenhum. Com as frequências de cada corda.</p><span class="meta">13 de outubro de 2026 · 5 min de leitura</span></div></a><a class="post-card revelar" style="--atraso:0.1s" href="/blog/como-estudar-baixo-20-minutos/">
-  <div class="img encaixar"><img src="/assets/img/blog-20-minutos.jpg?v=bcf600b9" alt="Como estudar baixo 20 minutos por dia (e evoluir de verdade)" loading="lazy"></div>
+  <div class="img"><img src="/assets/img/blog-20-minutos.jpg?v=cd104d4b" alt="Como estudar baixo 20 minutos por dia (e evoluir de verdade)" loading="lazy"></div>
   <div class="txt"><span class="rot">Primeiros passos</span><h3>Como estudar baixo 20 minutos por dia (e evoluir de verdade)</h3><p>Uma rotina simples em 4 partes, aquecimento, técnica, repertório e criação, que cabe em 20 minutos. Com exemplo de cada parte em tablatura, a regra do metrônomo e como medir o seu progresso.</p><span class="meta">24 de novembro de 2026 · 5 min de leitura</span></div></a><a class="post-card revelar" style="--atraso:0.2s" href="/blog/erros-de-baixista-iniciante/">
   <div class="img"><img src="/assets/img/blog-erros.jpg?v=a7e9d87a" alt="9 erros que todo baixista iniciante comete (e como sair de cada um)" loading="lazy"></div>
   <div class="txt"><span class="rot">Primeiros passos</span><h3>9 erros que todo baixista iniciante comete (e como sair de cada um)</h3><p>Mão tensa, volume alto, linha parada, metrônomo esquecido... Todo baixista passou por isso. Veja os 9 erros mais comuns de quem está começando e a saída para cada um, com exercício.</p><span class="meta">26 de outubro de 2026 · 5 min de leitura</span></div></a></div></div></section>

diff --git a/blog/como-afinar-o-baixo/index.html b/blog/como-afinar-o-baixo/index.html
@@ -181,7 +181,7 @@ Pode, se for <strong>cromático</strong>. Afinadores &quot;só de violão&quot; 
 <section class="secao"><div class="wrap"><div class="cab-secao"><div><span class="rot">Continue lendo</span><h2>Leia <span class="o">também</span></h2></div></div><div class="posts"><a class="post-card revelar" style="--atraso:0s" href="/blog/tirar-musica-de-ouvido-no-baixo/">
   <div class="img"><img src="/assets/img/blog-de-ouvido.jpg?v=0a5b838b" alt="Como tirar música de ouvido no baixo: 3 passos para começar" loading="lazy"></div>
   <div class="txt"><span class="rot">Primeiros passos</span><h3>Como tirar música de ouvido no baixo: 3 passos para começar</h3><p>Tirar de ouvido não é dom, é treino. Comece pela nota onde a música descansa, depois siga as trocas de acorde e só no fim copie o ritmo. Com um exercício de 15 minutos.</p><span class="meta">21 de outubro de 2026 · 5 min de leitura</span></div></a><a class="post-card revelar" style="--atraso:0.1s" href="/blog/como-estudar-baixo-20-minutos/">
-  <div class="img encaixar"><img src="/assets/img/blog-20-minutos.jpg?v=bcf600b9" alt="Como estudar baixo 20 minutos por dia (e evoluir de verdade)" loading="lazy"></div>
+  <div class="img"><img src="/assets/img/blog-20-minutos.jpg?v=cd104d4b" alt="Como estudar baixo 20 minutos por dia (e evoluir de verdade)" loading="lazy"></div>
   <div class="txt"><span class="rot">Primeiros passos</span><h3>Como estudar baixo 20 minutos por dia (e evoluir de verdade)</h3><p>Uma rotina simples em 4 partes, aquecimento, técnica, repertório e criação, que cabe em 20 minutos. Com exemplo de cada parte em tablatura, a regra do metrônomo e como medir o seu progresso.</p><span class="meta">24 de novembro de 2026 · 5 min de leitura</span></div></a><a class="post-card revelar" style="--atraso:0.2s" href="/blog/erros-de-baixista-iniciante/">
   <div class="img"><img src="/assets/img/blog-erros.jpg?v=a7e9d87a" alt="9 erros que todo baixista iniciante comete (e como sair de cada um)" loading="lazy"></div>
   <div class="txt"><span class="rot">Primeiros passos</span><h3>9 erros que todo baixista iniciante comete (e como sair de cada um)</h3><p>Mão tensa, volume alto, linha parada, metrônomo esquecido... Todo baixista passou por isso. Veja os 9 erros mais comuns de quem está começando e a saída para cada um, com exercício.</p><span class="meta">26 de outubro de 2026 · 5 min de leitura</span></div></a></div></div></section>

diff --git a/blog/decorar-notas-do-braco/index.html b/blog/decorar-notas-do-braco/index.html
@@ -168,7 +168,7 @@ Porque a mesma casa pode ser vista como uma nota natural subida (♯) ou outra d
 <section class="secao"><div class="wrap"><div class="cab-secao"><div><span class="rot">Continue lendo</span><h2>Leia <span class="o">também</span></h2></div></div><div class="posts"><a class="post-card revelar" style="--atraso:0s" href="/blog/erros-de-baixista-iniciante/">
   <div class="img"><img src="/assets/img/blog-erros.jpg?v=a7e9d87a" alt="9 erros que todo baixista iniciante comete (e como sair de cada um)" loading="lazy"></div>
   <div class="txt"><span class="rot">Primeiros passos</span><h3>9 erros que todo baixista iniciante comete (e como sair de cada um)</h3><p>Mão tensa, volume alto, linha parada, metrônomo esquecido... Todo baixista passou por isso. Veja os 9 erros mais comuns de quem está começando e a saída para cada um, com exercício.</p><span class="meta">26 de outubro de 2026 · 5 min de leitura</span></div></a><a class="post-card revelar" style="--atraso:0.1s" href="/blog/como-estudar-baixo-20-minutos/">
-  <div class="img encaixar"><img src="/assets/img/blog-20-minutos.jpg?v=bcf600b9" alt="Como estudar baixo 20 minutos por dia (e evoluir de verdade)" loading="lazy"></div>
+  <div class="img"><img src="/assets/img/blog-20-minutos.jpg?v=cd104d4b" alt="Como estudar baixo 20 minutos por dia (e evoluir de verdade)" loading="lazy"></div>
   <div class="txt"><span class="rot">Primeiros passos</span><h3>Como estudar baixo 20 minutos por dia (e evoluir de verdade)</h3><p>Uma rotina simples em 4 partes, aquecimento, técnica, repertório e criação, que cabe em 20 minutos. Com exemplo de cada parte em tablatura, a regra do metrônomo e como medir o seu progresso.</p><span class="meta">24 de novembro de 2026 · 5 min de leitura</span></div></a><a class="post-card revelar" style="--atraso:0.2s" href="/blog/tirar-musica-de-ouvido-no-baixo/">
   <div class="img"><img src="/assets/img/blog-de-ouvido.jpg?v=0a5b838b" alt="Como tirar música de ouvido no baixo: 3 passos para começar" loading="lazy"></div>
   <div class="txt"><span class="rot">Primeiros passos</span><h3>Como tirar música de ouvido no baixo: 3 passos para começar</h3><p>Tirar de ouvido não é dom, é treino. Comece pela nota onde a música descansa, depois siga as trocas de acorde e só no fim copie o ritmo. Com um exercício de 15 minutos.</p><span class="meta">21 de outubro de 2026 · 5 min de leitura</span></div></a></div></div></section>
